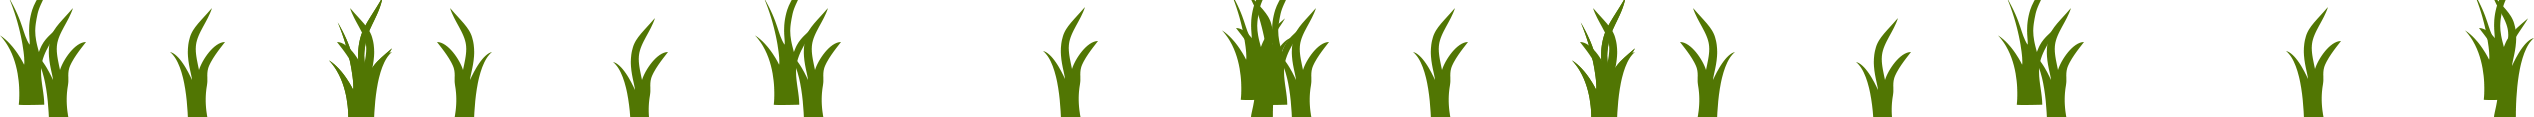
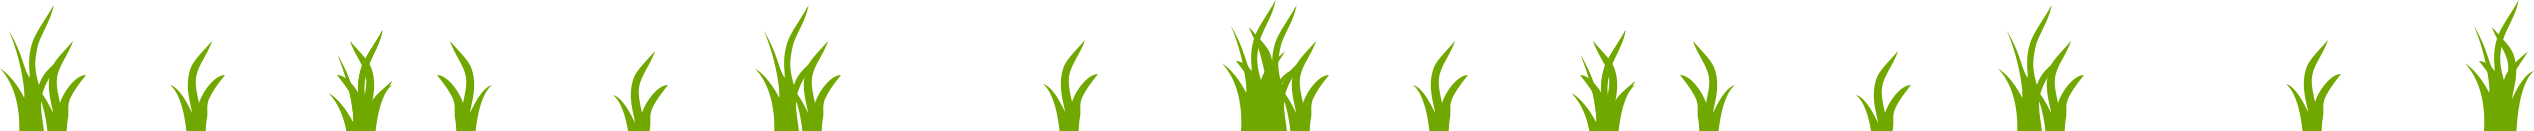
new instructions

diff --git a/public/javascripts/leap_control.js b/public/javascripts/leap_control.js
@@ -20,7 +20,10 @@ var message_rate = 5;
 var allow_instrument_switch = true;
 var sel_timeout;
 var cat_selection = true;
-var cat_confirm_motion_ctr = 0;
+var next_tutorial = "show_tutorial()";
+var tutorial_started = false;
+var down_motion_counter = 0; // count the distance of pressing fingures
+var down_motion_stall = 0; // to help prevent multiple pressing down gestuer at the same time
 
 // Support both the WebSocket and MozWebSocket objects
 if ((typeof(WebSocket) == 'undefined') &&
@@ -53,15 +56,20 @@ function init_leap() {
          var tip = obj.pointables[0].tipPosition;
          leap_x = tip[0];
          leap_y = tip[1];
-         var cat_sel = Math.floor((leap_x*0.1+100)/cats.length);
-         my_cat_flow.moveTo(cat_sel);
-         if(leap_y - leap_y_previous < -2){
-          cat_confirm_motion_ctr += 1;
+         if(down_motion_stall >= 0 && leap_y - leap_y_previous < -2){
+          down_motion_counter += 1;
           console.log("swiped down");
-          if(cat_confirm_motion_ctr > 10){
-            ready_to_start();
-          }
          }
+         if(!tutorial_started){
+          var cat_sel = Math.floor((leap_x*0.1+100)/cats.length);
+          my_cat_flow.moveTo(cat_sel);
+        }
+         if(down_motion_counter > 5 ){
+            down_motion_counter = 0;
+            down_motion_stall = -30;
+            eval(next_tutorial);
+         }
+         down_motion_stall += 1;
          leap_y_previous = leap_y;
       }else{
         $("#leap_circle").show();
@@ -139,8 +147,53 @@ function init_leap() {
       if(!cat_selection) $("#note").html("We can't detect your finger, try moving your finger closer to the unit.").show();
     }
   };
-  
-  function leap_select_sound(x){
+
+  // On socket close
+  ws.onclose = function(event) {
+    ws = null;
+    document.getElementById("leap_connection").innerHTML = "LEAP: WebSocket connection closed";
+  }
+  //On socket error
+  ws.onerror = function(event) {
+    alert("LEAP: received error");
+  };
+}
+
+
+function show_tutorial(){
+  tutorial_started = true;
+  next_tutorial = "show_tutorial_2()";
+  $("#tutorial").show();
+  $("#loading").html("");
+  $("#note").html("Instruction 1/3 <br/> Press your finger to continue");
+  $("#cat_select").hide();
+  $("#t1").show();
+  $("#tutorial").click(function(){
+    show_tutorial_2();
+  });
+}
+
+function show_tutorial_2(){
+  next_tutorial = "show_tutorial_3()";
+    $("#t1").hide();
+    $("#t2").show();
+    $("#note").html("Instruction 2/3 <br/> Press your finger to continue");
+    $("#tutorial").unbind().click(function(){
+        show_tutorial_3();
+    });
+}
+
+function show_tutorial_3(){
+  next_tutorial = "ready_to_start()";
+    $("#t2").hide();
+    $("#t3").show();
+    $("#note").html("Instruction 3/3 <br/> Press your finger to continue");
+    $("#tutorial").unbind().click(function(){
+        ready_to_start();
+    });
+}
+
+function leap_select_sound(x){
     if(x>60){
       local_sound_choice = 8;
     }else if(x>45){
@@ -163,16 +216,3 @@ function init_leap() {
     $(".select_sound").removeClass("sel_highlighted");
     $("#sound_"+(local_sound_choice+1)).addClass("sel_highlighted");
 }
-
-  // On socket close
-  ws.onclose = function(event) {
-    ws = null;
-    document.getElementById("leap_connection").innerHTML = "LEAP: WebSocket connection closed";
-  }
-  
-  //On socket error
-  ws.onerror = function(event) {
-    alert("LEAP: received error");
-  };
-}
-

diff --git a/public/javascripts/vis_control.js b/public/javascripts/vis_control.js
@@ -52,11 +52,6 @@ var stop_canvas = false;
 var sun_rotation = 0;
 
 function init_vis_canvas() {
-    $(".select_sound").click(function(){
-      $(".select_sound").removeClass("sel_highlighted");
-      local_sound_choice = this.id.split("_")[1] - 1;
-      $("#sound_"+(local_sound_choice+1)).addClass("sel_highlighted");
-    });
     // init all background images
     bg_img = new Image();
     bg_img.src = "images/bg.jpg";
@@ -121,8 +116,8 @@ function draw() {
     ctx.drawImage(bg_grass_3, grass_1_x+grass_width, h-60,grass_width,60);
     ctx.drawImage(bg_grass_2, grass_2_x, h-60,grass_width,60);
     ctx.drawImage(bg_grass_2, grass_2_x+grass_width, h-60,grass_width,60);
-    ctx.drawImage(bg_grass_1, grass_3_x, h-40,grass_width,60);
-    ctx.drawImage(bg_grass_1, grass_3_x+grass_width, h-40,grass_width,60);
+    ctx.drawImage(bg_grass_1, grass_3_x, h-60,grass_width,80);
+    ctx.drawImage(bg_grass_1, grass_3_x+grass_width, h-60,grass_width,80);
 
     // generate note
     if(cat_selection) return;
@@ -256,34 +251,6 @@ function make_note(){
     return text;
 }
 
-function show_tutorial(){
-  $("#tutorial").show();
-  var duration = 5000;
-  var time = duration;
-  $("#t1").fadeIn();
-  $("#progressbar").animate({"width":"350"},duration);
-  setTimeout(function(){
-    $("#progressbar").animate({"width":"0"},0);
-    $("#t1").hide();
-    $("#t2").fadeIn();
-    $("#progressbar").animate({"width":"350"},duration);
-  },time)
-  time += duration;
-  setTimeout(function(){
-    $("#progressbar").animate({"width":"0"},0);
-    $("#t2").hide();
-    $("#t3").fadeIn();
-    $("#progressbar").animate({"width":"350"},duration);
-  },time)
-  time += duration;
-  setTimeout(function(){
-    $("#progressbar").fadeOut();
-    $("#t3").fadeOut();
-    $("#tutorial").fadeOut();
-    ready_to_start();
-  },time)
-}
-
 function ready_to_start(){
     cat_selection = false;
     my_cat=get_active_cat();
@@ -294,6 +261,12 @@ function ready_to_start(){
     $("#cat_select").hide();
     $("#loading").fadeOut();
     $("#my_circle").show();
+    $("#tutorial").hide();
+    $(".select_sound").click(function(){
+      $(".select_sound").removeClass("sel_highlighted");
+      local_sound_choice = this.id.split("_")[1] - 1;
+      $("#sound_"+(local_sound_choice+1)).addClass("sel_highlighted");
+    });
     // tutorial_img_interval = setInterval(function(){
     //     $(".tutorial_img").hide().fadeIn(600);
     // },600);
@@ -307,9 +280,9 @@ function ready_to_start(){
 function show_cat_select(){
     my_cat_flow = new ContentFlow('cat_select', {});
     for (cat in cats) {
-        $('.ContentFlow .flow').append('<img class="item" href="javascript:ready_to_start()" src="/images/cats/' + cats[cat][0] + '"/>');
+        $('.ContentFlow .flow').append('<img class="item" href="javascript:show_tutorial()" src="/images/cats/' + cats[cat][0] + '"/>');
     }
-    $("#loading").html("Please choose a cat to start");
+    $("#loading").html("Use one finger to choose a cat, press finger to continue.");
 }
 
 function get_active_cat(){

diff --git a/public/javascripts/audio_control.js b/public/javascripts/audio_control.js
@@ -72,10 +72,10 @@ function buffer_loading_finished(bufferList) {
 
 // play a particular sound clip with a playlist, and the index in the playlist
 function local_play(playlist,index){
+  if(cat_selection) return; // disable sound when user is still in selection mode
   if(typeof local_buffer_player !== "undefined"){
     local_buffer_player.stop(0);
   }
-
   var compressor=ad_context.createDynamicsCompressor();
   local_buffer_player = ad_context.createBufferSource();
   local_buffer_player.buffer = playlist[index];
@@ -121,6 +121,7 @@ function play_background_beats(playlist,index){
 
 // play a particular sound clip for a remote player with a playlist, and the index in the playlist
 function remote_play(player_id, playlist,index,volume){
+  if(cat_selection) return; // disable sound when user is still in selection mode
   if(typeof other_player_info[player_id].player !== "undefined"){
     other_player_info[player_id].player.stop(0);
   }
@@ -244,7 +245,7 @@ function initialize_socket(){
   socket = io.connect('/game');
   socket.on('other-motion', function (data) {
     if($("#"+data.id).length == 0){
-      $("body").append("<div id='"+data.id+"' class='other_circle'><img src='images/nyan.gif' width='100px'></div>");
+      $("body").append("<div id='"+data.id+"' class='other_circle'><img src='' width='100px'></div>");
     }
 
     if(typeof other_player_info[data.id] === "undefined"){

diff --git a/public/stylesheets/index.css b/public/stylesheets/index.css
@@ -133,11 +133,6 @@ a:hover{
 .hide{
 	display: none;
 }
-.img{
-	margin: 5 auto 0 auto;
-	width: 250px;
-	opacity: 0.8;
-}
 #progressbar{
 	margin: 95px auto 0 auto;
 	width: 0px;
@@ -151,10 +146,14 @@ a:hover{
 	height: 100%;
 	top: 0;
 }
-#tutorial img{
-	width: 340px;
+#tutorial .img{
+	margin: 5 auto 0 auto;
+	width: 500px;
 	height: auto;
 	border: 5px solid #000;
+}
+#tutorial img{
+	width: 500px;
 }
 #instrument_switch{
 	width: 200px;
